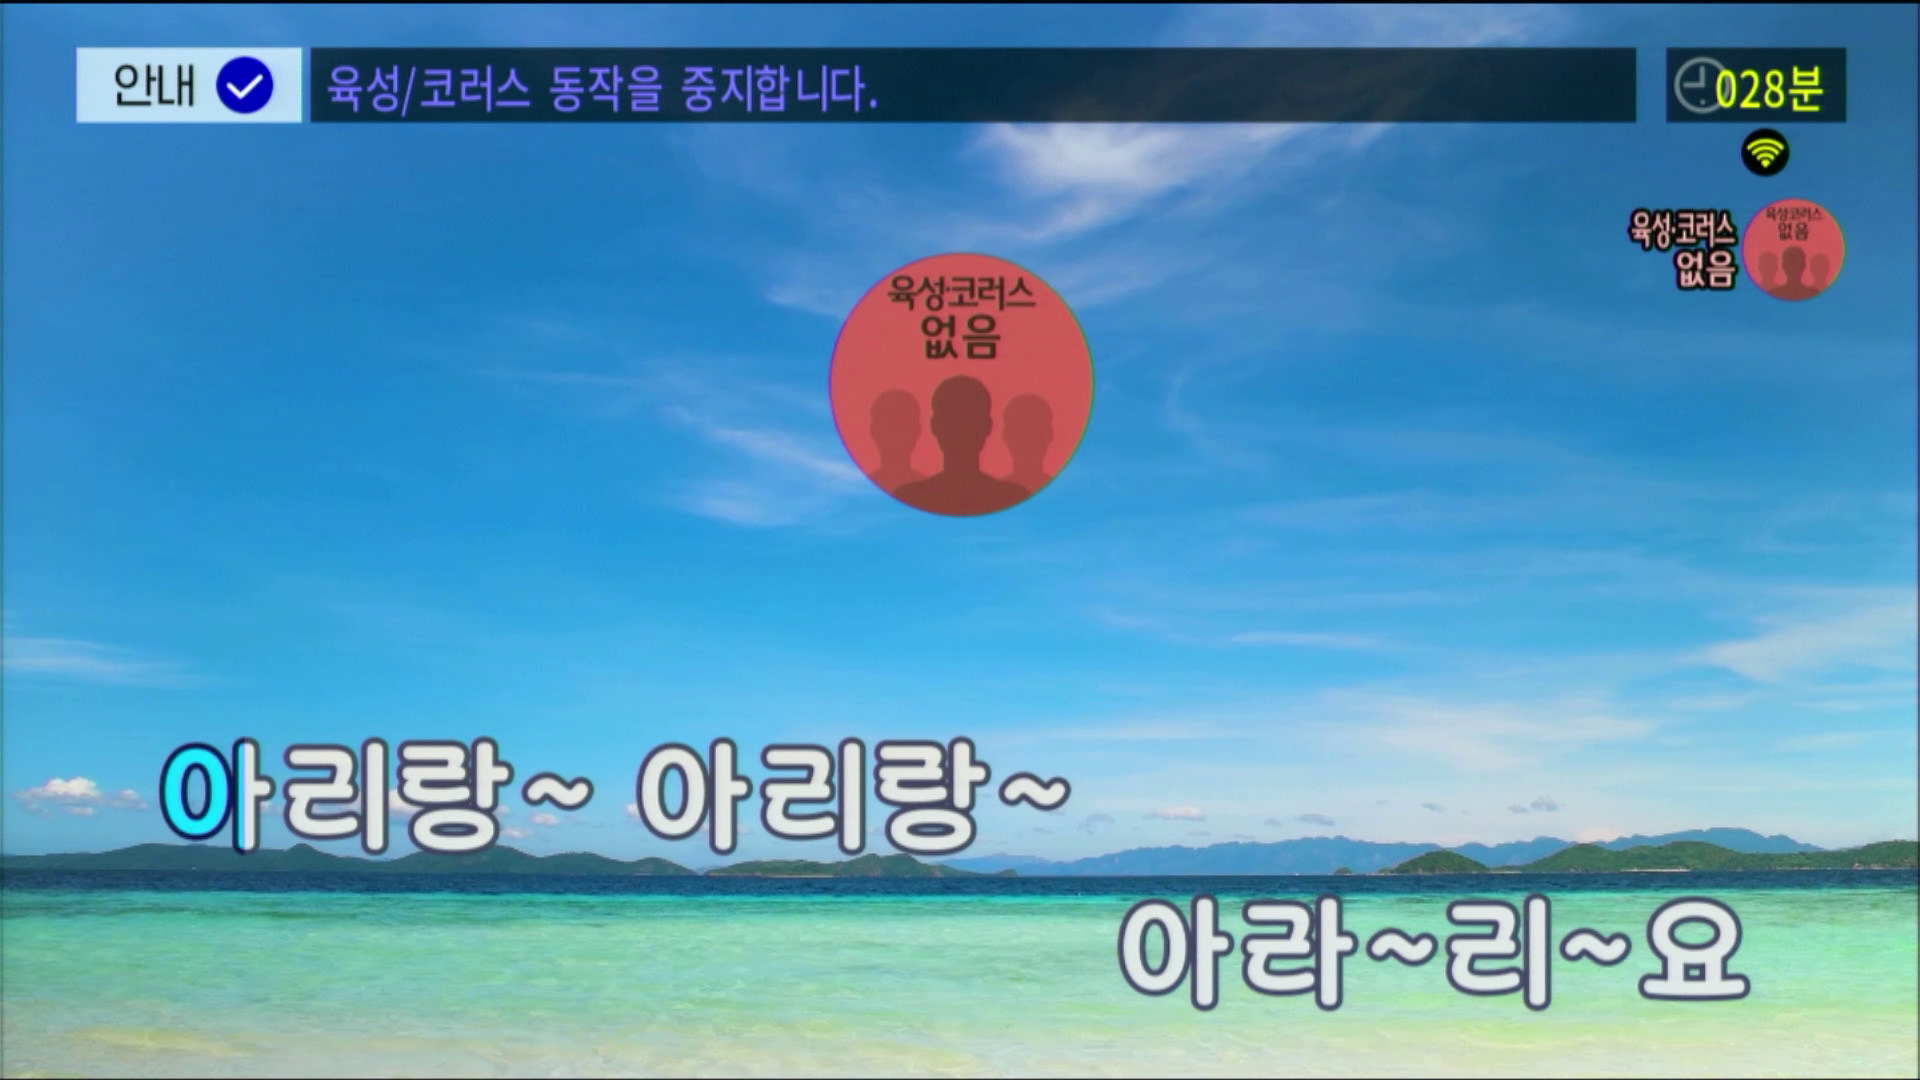
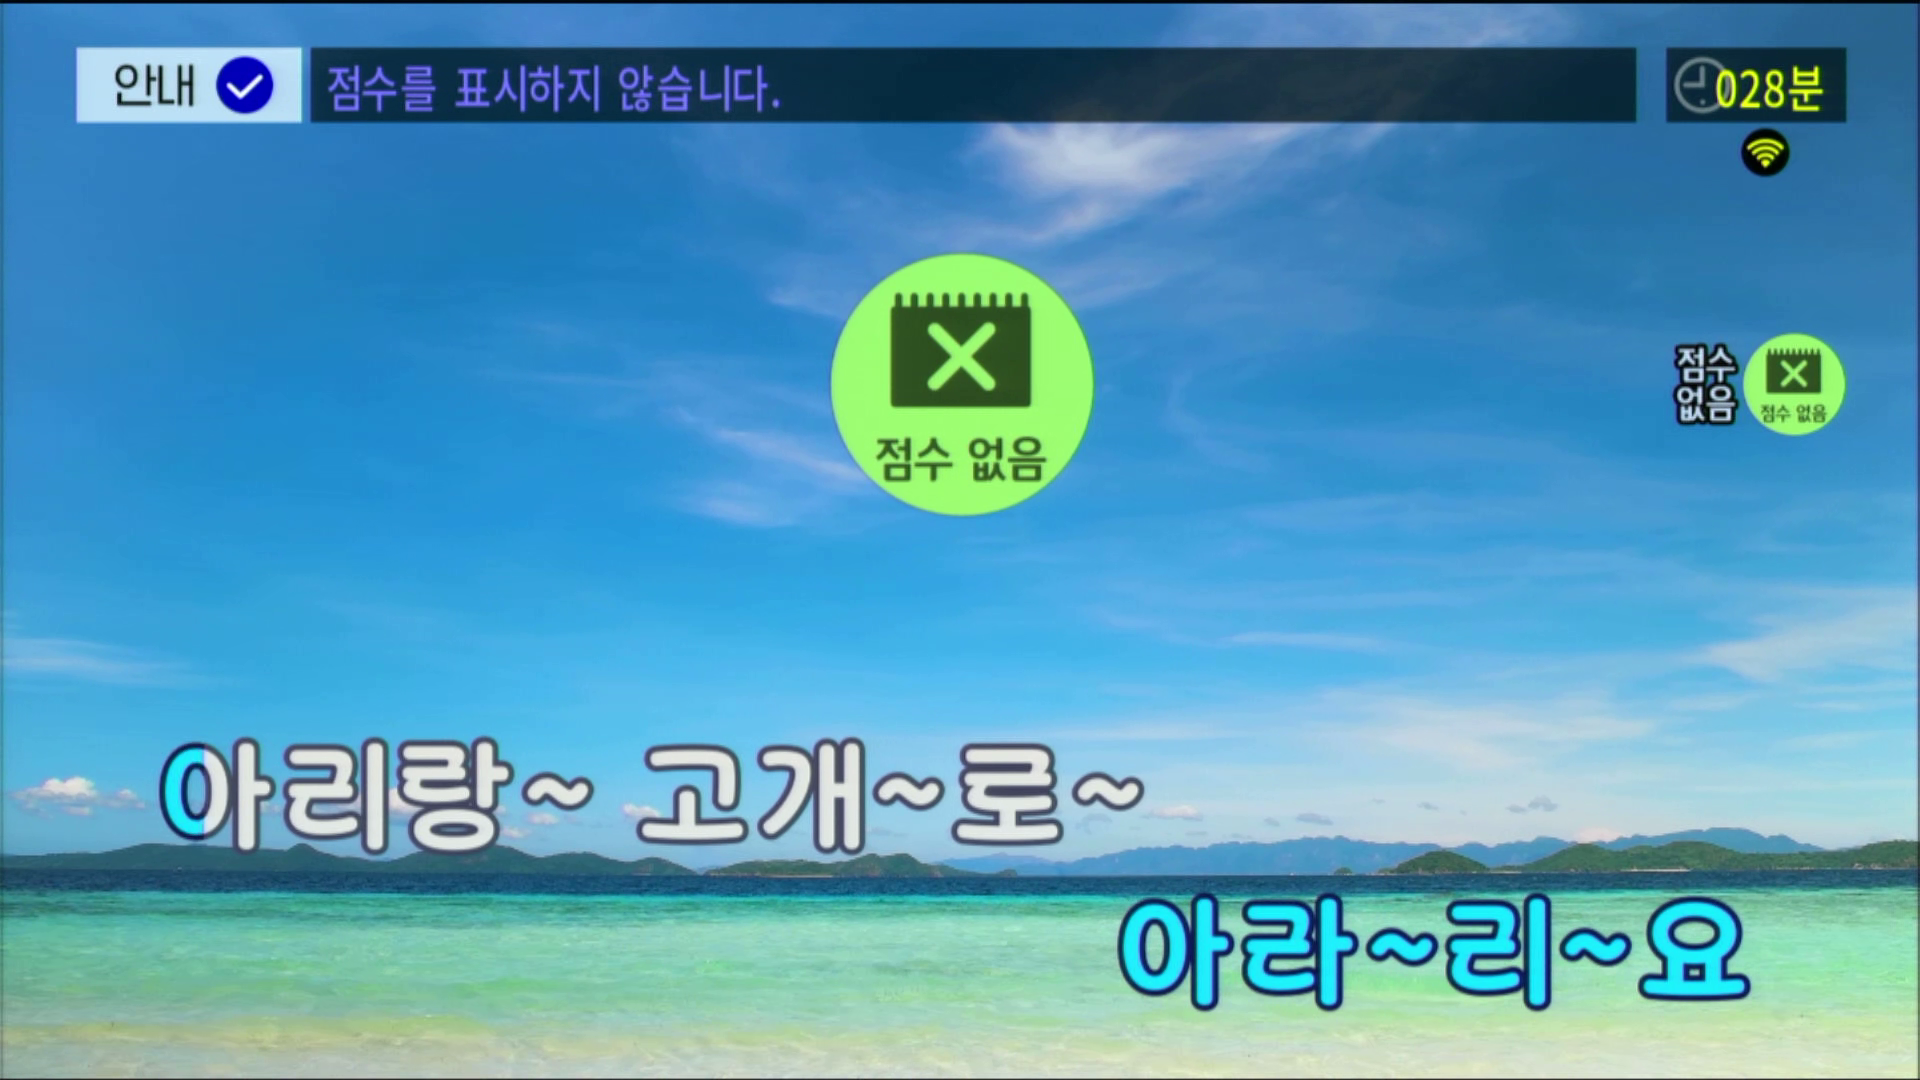
점수없음 구현

diff --git a/skin/2series/code.js b/skin/2series/code.js
@@ -51,11 +51,14 @@ const imagePaths = [
 	"./skin/2series/assets/song/playing/MV.webp",
 	"./skin/2series/assets/song/playing/MR.webp",
 	"./skin/2series/assets/song/playing/LIVE.webp",
+	"./skin/2series/assets/song/playing/noscore.png",
 	"./skin/2series/assets/song/playing/nochorus.png",
 	"./skin/2series/assets/ui/center/interludejump.webp",
 	"./skin/2series/assets/ui/center/phasejump.webp",
 	"./skin/2series/assets/ui/center/frontbarjump.webp",
 	"./skin/2series/assets/ui/center/backbarjump.webp",
+	"./skin/2series/assets/ui/center/scoreoff.webp",
+	"./skin/2series/assets/ui/center/scoreon.webp",
 	"./skin/2series/assets/ui/center/chorusoff.webp",
 	"./skin/2series/assets/ui/center/choruson.webp",
 	"./skin/2series/assets/ui/center/services.webp",
@@ -168,6 +171,8 @@ wrapper.appendChild(noscoreimagebox);
 wrapper.appendChild(nochorusimagebox);
 wrapper.appendChild(firstphaseimagebox);
 
+noscoreimage.src = './skin/2series/assets/ui/center/scoreoff.webp';
+noscoreimagetxt.src = './skin/2series/assets/song/playing/noscore.png';
 nochorusimage.src = './skin/2series/assets/ui/center/chorusoff.webp';
 nochorusimagetxt.src = './skin/2series/assets/song/playing/nochorus.png';
 
@@ -376,7 +381,8 @@ setInterval(()=>{
 function startsong(number, title, dis, group, sing, gender, songint, curint, lyrics, compos, original, banner, lang="KR"){
 	inanime = true;
 	isshowed = true;
-	hidecenterimage()
+	hidecenterimage();
+	hidesideimage();
 	//상단바 숨기기
 	topimgbox.style.visibility = "hidden";
 	topblackbar.style.visibility = "hidden";
@@ -835,6 +841,10 @@ async function loadsideimage(onlyshow=false, noshow=false) {
 		if (!noshow) nochorusimagebox.style.visibility = "visible";
 		if (!onlyshow) nochorusimage.src = getCachedURL(`./skin/2series/assets/ui/center/chorusoff.webp`);
 	} else nochorusimagebox.style.visibility = "hidden";
+	if (noscore) {
+		if (!noshow) noscoreimagebox.style.visibility = "visible";
+		if (!onlyshow) noscoreimage.src = getCachedURL(`./skin/2series/assets/ui/center/scoreoff.webp`);
+	} else noscoreimagebox.style.visibility = "hidden";
 }
 
 //score: 점수

diff --git a/code.js b/code.js
@@ -461,7 +461,7 @@ async function endscore(){
         setnextreservesong(reservedsong[0], js.title, js.description, js.group||js.sing);
         if (prioritysong!=null) { prioritysong=null; }
     }
-    loadsideimage();
+    loadsideimage(true);
 }
 
 async function input(n) {
@@ -688,6 +688,18 @@ document.addEventListener('keydown', async function(event) {
             addservice(toupcoin);
             remotemode=false;
             inpnum = '';
+        } else if (!remotemode) {
+            if (noscore){
+                info(0, '점수를 표시합니다.');
+                noscore = false;
+                loadsideimage(false);
+                loadimage('scoreon');
+            } else {
+                info(0, '점수를 표시하지 않습니다.');
+                noscore = true;
+                loadsideimage(false);
+                loadimage('scoreoff');
+            }
         }
     } else if (event.key === 'd' || event.key === 'D') {
         if(!freeplay&&remotemode&&!freeplay) {
@@ -748,4 +760,8 @@ setlimit(false);
 
 skiploading=false;
 loading(0);
-setTimeout(()=>{loading(1, '<span class="modaltexthighlight">곡 폴더</span>가 선택되지 않았습니다.</br>곡 재생 등 기능 사용을 위해서는<br>곡이 있는 폴더를 선택해야 합니다.<br>확인 버튼을 눌러 곡을 선택해주세요.');}, 2000);
+
+addEventListener("DOMContentLoaded", async (event) => {
+    await wait(1000);
+    loading(1, '<span class="modaltexthighlight">곡 폴더</span>가 선택되지 않았습니다.</br>곡 재생 등 기능 사용을 위해서는<br>곡이 있는 폴더를 선택해야 합니다.<br>확인 버튼을 눌러 곡을 선택해주세요.');
+});

diff --git a/skin/2series/style.css b/skin/2series/style.css
@@ -343,7 +343,7 @@
 #noscoreimagebox {
     position: absolute;
     right: 77px;
-    top: 198px;
+    top: 334px;
     visibility: hidden;
 }
 
